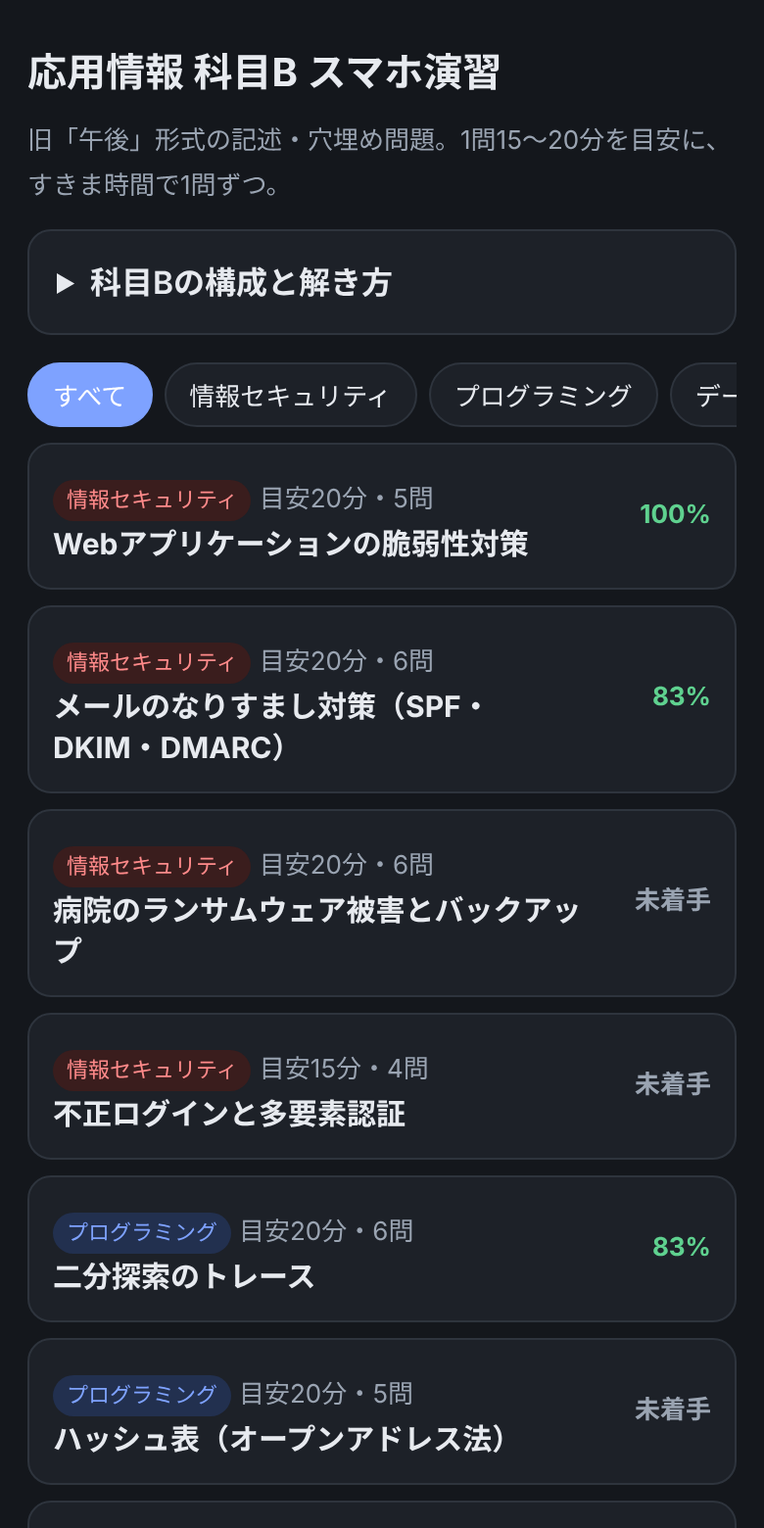
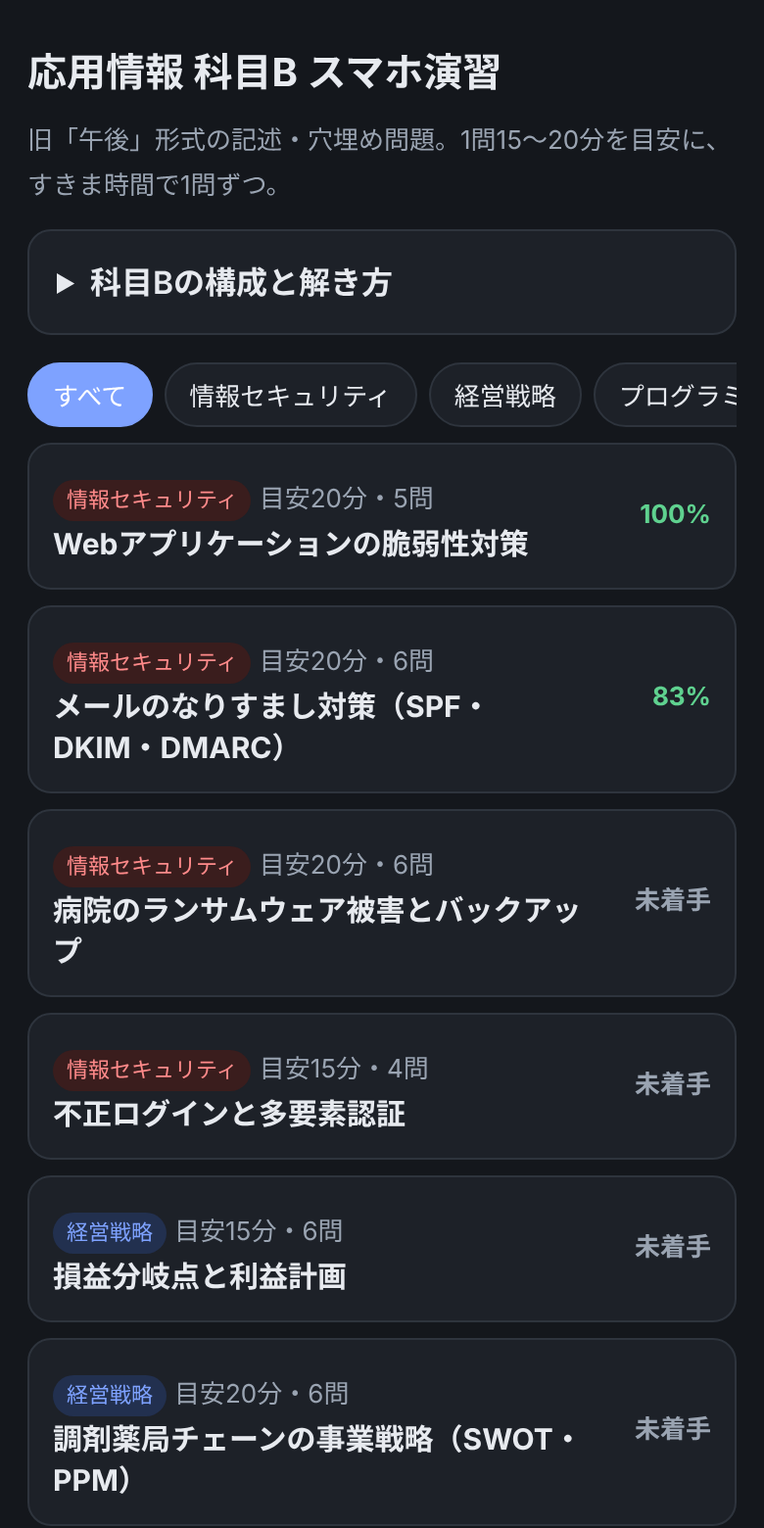
経営戦略・システムアーキテクチャ・情報システム開発・システム監査の問題を追加し、全11分野をそろえる

diff --git a/js/problems.js b/js/problems.js
@@ -3,12 +3,16 @@
 // body の {{g:記号}} は、その記号の解答群に置き換わる
 const FIELDS = {
   sec: { name: '情報セキュリティ', note: '問1・必須' },
-  prog: { name: 'プログラミング', note: '選択' },
-  db: { name: 'データベース', note: '選択' },
-  nw: { name: 'ネットワーク', note: '選択' },
-  emb: { name: '組込みシステム', note: '選択' },
-  pm: { name: 'プロジェクトマネジメント', note: '選択' },
-  sm: { name: 'サービスマネジメント', note: '選択' },
+  st: { name: '経営戦略', note: '問2' },
+  prog: { name: 'プログラミング', note: '問3' },
+  arch: { name: 'システムアーキテクチャ', note: '問4' },
+  nw: { name: 'ネットワーク', note: '問5' },
+  db: { name: 'データベース', note: '問6' },
+  emb: { name: '組込みシステム', note: '問7' },
+  dev: { name: '情報システム開発', note: '問8' },
+  pm: { name: 'プロジェクトマネジメント', note: '問9' },
+  sm: { name: 'サービスマネジメント', note: '問10' },
+  au: { name: 'システム監査', note: '問11' },
 };
 
 const PROBLEMS = [
@@ -631,4 +635,313 @@ const PROBLEMS = [
 <p><b>d</b>：MTBF ÷ (MTBF ＋ MTTR) ＝ 480 ÷ 500 ＝ <b>0.96</b>。</p>
 <p><b>e・f</b>：インシデント管理＝とにかく早く元に戻す（暫定対処でもよい）。問題管理＝根本原因を突き止めて再発を防ぐ。変更管理＝変更を安全に行う。この役割分担は毎年のように問われる。</p>`
 },
+/* ===================== 経営戦略 ===================== */
+{
+  id: 'b1', f: 'st', title: '損益分岐点と利益計画', min: 15,
+  body: `
+<p>N社は、スマートフォンのアプリと連動する体組成計を製造・販売している。販売単価は20,000円、1台あたりの変動費は12,000円、年間の固定費は4,000万円である。</p>
+<h4>設問1</h4>
+<p>限界利益率は〔a〕%である。</p>
+<h4>設問2</h4>
+<p>損益分岐点の販売台数は〔b〕台である。また、年間1,200万円の営業利益を得るには〔c〕台を販売する必要がある。</p>
+<h4>設問3</h4>
+<p>年間7,500台を販売したときの安全余裕率は〔d〕%である（小数第2位を四捨五入）。</p>
+<h4>設問4</h4>
+<p>部品の共通化によって、1台あたりの変動費を2,000円下げられた。固定費が変わらないとき、損益分岐点の販売台数は〔e〕台になる。</p>
+<h4>設問5</h4>
+<p>工場の自動化によって、固定費を増やす代わりに変動費を大きく下げる案がある。この案の特徴として適切なものを〔f〕の解答群から選べ。</p>
+{{g:f}}`,
+  items: [
+    { k: 'a', l: '設問1', t: 'n', a: ['40'] },
+    { k: 'b', l: '設問2 b', t: 'n', a: ['5000'] },
+    { k: 'c', l: '設問2 c', t: 'n', a: ['6500'] },
+    { k: 'd', l: '設問3', t: 'n', a: ['33.3'] },
+    { k: 'e', l: '設問4', t: 'n', a: ['4000'] },
+    { k: 'f', l: '設問5', t: 'c', o: ['損益分岐点が必ず下がる', '限界利益率が下がる', '売上高の増減に対して、営業利益の増減が大きくなる', '売上高に関係なく営業利益が一定になる'], a: 2 },
+  ],
+  exp: `
+<p><b>基本の式</b>：限界利益 ＝ 売上高 − 変動費。損益分岐点では「限界利益 ＝ 固定費」になる。</p>
+<ul>
+<li>a：1台の限界利益 ＝ 20,000 − 12,000 ＝ 8,000円。限界利益率 ＝ 8,000 ÷ 20,000 ＝ <b>40%</b></li>
+<li>b：4,000万円 ÷ 8,000円 ＝ <b>5,000台</b>（売上高にすると 1億円 ＝ 4,000万 ÷ 0.4）</li>
+<li>c：（固定費 ＋ 目標利益）÷ 1台の限界利益 ＝ 5,200万 ÷ 8,000 ＝ <b>6,500台</b></li>
+<li>d：安全余裕率 ＝（実際 − 損益分岐点）÷ 実際 ＝ 2,500 ÷ 7,500 ≒ <b>33.3%</b>。売上がどれだけ落ちても赤字にならないかを表す</li>
+<li>e：1台の限界利益が 10,000円になるので 4,000万 ÷ 10,000 ＝ <b>4,000台</b></li>
+</ul>
+<p><b>f</b>：固定費の割合が大きいほど、売上が増えたときの利益の伸びも、減ったときの落ち込みも大きくなる（営業レバレッジが高い）。損益分岐点は固定費が増えるので上がることもある。</p>
+<p class="tip">「台数で聞かれているか、売上高で聞かれているか」を最初に確認する。売上高なら固定費 ÷ 限界利益率、台数なら固定費 ÷ 1個の限界利益。</p>`
+},
+{
+  id: 'b2', f: 'st', title: '調剤薬局チェーンの事業戦略（SWOT・PPM）', min: 20,
+  body: `
+<p>O社は、地方で20店舗を展開する調剤薬局チェーンである。経営企画部が中期経営計画のために現状を分析したところ、次のことが分かった。</p>
+<div class="box"><ul>
+<li>地域の診療所との関係が深く、在宅患者への訪問服薬指導の実績が多い。</li>
+<li>店舗のIT化が遅れており、薬剤師の採用も難しくなっている。</li>
+<li>高齢化によって在宅医療の需要が伸びている。電子処方箋の普及やオンライン服薬指導の広がりで、店舗に来られない患者にもサービスを届けやすくなっている。</li>
+<li>大手ドラッグストアが調剤に参入し、近隣に出店を続けている。</li>
+</ul></div>
+<p>O社の事業は次の2つである。</p>
+<table><tr><th>事業</th><th>市場<br>成長率</th><th>相対的<br>市場シェア</th></tr>
+<tr><td>店頭での調剤</td><td>低い</td><td>高い</td></tr>
+<tr><td>在宅・オンライン服薬指導</td><td>高い</td><td>低い</td></tr></table>
+<h4>設問1</h4>
+<p>SWOT分析で、「電子処方箋の普及」は〔a〕、「薬剤師の採用が難しい」は〔b〕に分類される。解答群から選べ。</p>
+{{g:a}}
+<h4>設問2</h4>
+<p>クロスSWOT分析で、「強み」を「機会」に生かす施策として最も適切なものを〔c〕の解答群から選べ。</p>
+{{g:c}}
+<h4>設問3</h4>
+<p>PPMで、「在宅・オンライン服薬指導」は〔d〕、「店頭での調剤」は〔e〕に当たる。解答群から選べ。</p>
+{{g:d}}
+<h4>設問4</h4>
+<p>PPMの考え方に基づいた、2つの事業の間での資金の使い方を〔f〕に30字以内で述べよ。</p>`,
+  items: [
+    { k: 'a', l: '設問1 a', t: 'c', o: ['強み', '弱み', '機会', '脅威'], a: 2, g: 'a・b に共通の解答群' },
+    { k: 'b', l: '設問1 b', t: 'c', o: ['強み', '弱み', '機会', '脅威'], a: 1, hideG: true },
+    { k: 'c', l: '設問2', t: 'c', o: ['不採算の店舗を閉鎖し、大手との競合を避ける', '店舗の内装を一新して来店客を増やす', '薬の価格を引き下げて大手に対抗する', '訪問服薬指導の実績を生かし、オンライン服薬指導と組み合わせた在宅患者向けサービスを広げる'], a: 3 },
+    { k: 'd', l: '設問3 d', t: 'c', o: ['花形', '金のなる木', '問題児', '負け犬'], a: 2, g: 'd・e に共通の解答群' },
+    { k: 'e', l: '設問3 e', t: 'c', o: ['花形', '金のなる木', '問題児', '負け犬'], a: 1, hideG: true },
+    { k: 'f', l: '設問4', t: 'w', lim: 30, a: '店頭調剤の資金を在宅・オンライン事業に投資し花形に育てる', kw: [['店頭', '金のなる木'], ['在宅', 'オンライン', '問題児'], ['投資', '投入', '配分', '回す']] },
+  ],
+  exp: `
+<p><b>a・b</b>：自社の内側のこと（変えられること）が強み・弱み、外側の環境が機会・脅威。電子処方箋の普及は外部環境の追い風なので<b>機会</b>、採用難は自社の<b>弱み</b>。</p>
+<p><b>c</b>：強み（訪問服薬指導の実績）×機会（在宅医療の需要・オンライン化）＝積極化戦略。アは脅威を避ける守りの施策、イ・ウは本文の強みを使っていない。</p>
+<p><b>d・e</b>：PPMは市場成長率と相対的市場シェアの2軸で分ける。</p>
+<table><tr><th></th><th>シェア高</th><th>シェア低</th></tr>
+<tr><th>成長率高</th><td>花形</td><td>問題児</td></tr>
+<tr><th>成長率低</th><td>金のなる木</td><td>負け犬</td></tr></table>
+<p><b>f</b>：金のなる木（投資があまり要らず、資金を生む）で得た資金を、問題児（成長市場だがシェアが低い）に投資してシェアを上げ、花形に育てるのが基本方針。本文の事業名を使って書くと伝わりやすい。</p>
+<p class="tip">経営戦略の問題は、本文にある「強み」をそのまま使った選択肢が正解になりやすい。本文に書かれていない施策は選ばない。</p>`
+},
+/* ===================== システムアーキテクチャ ===================== */
+{
+  id: 'a1', f: 'arch', title: 'Webシステムの性能見積り', min: 20,
+  body: `
+<p>P社は、予約サイトのサーバ構成を見直している。</p>
+<div class="box"><ul>
+<li>APサーバは1台あたりCPUが4コアで、1件のリクエストの処理にCPU時間を50ms使う。リクエストは各コアに均等に振り分けられる。</li>
+<li>APサーバのCPU使用率は、ピーク時でも70%以下に抑える。</li>
+<li>ピーク時のリクエストは毎秒150件である。</li>
+<li>DBサーバはM/M/1の待ち行列とみなせる。1件の平均サービス時間は20msである。</li>
+</ul></div>
+<h4>設問1</h4>
+<p>APサーバ1台が処理できるリクエストは、CPU使用率100%のとき最大で毎秒〔a〕件である。</p>
+<h4>設問2</h4>
+<p>ピーク時にCPU使用率70%以下を満たすには、APサーバが最低〔b〕台必要である。さらに、1台が故障しても同じ条件を満たすには〔c〕台必要である。</p>
+<h4>設問3</h4>
+<p>DBサーバへの要求が毎秒40件のとき、DBサーバの利用率は〔d〕、平均応答時間（待ち時間＋サービス時間）は〔e〕msである。</p>
+<h4>設問4</h4>
+<p>DBサーバへの要求が毎秒45件に増えると、平均応答時間は〔f〕msになる。</p>`,
+  items: [
+    { k: 'a', l: '設問1', t: 'n', a: ['80'] },
+    { k: 'b', l: '設問2 b', t: 'n', a: ['3'] },
+    { k: 'c', l: '設問2 c', t: 'n', a: ['4'] },
+    { k: 'd', l: '設問3 d', t: 'n', a: ['0.8', '80%'] },
+    { k: 'e', l: '設問3 e', t: 'n', a: ['100'] },
+    { k: 'f', l: '設問4', t: 'n', a: ['200'] },
+  ],
+  exp: `
+<p><b>a</b>：1コアは1秒（1,000ms）で 1,000 ÷ 50 ＝ 20件。4コアで <b>80件/秒</b>。</p>
+<p><b>b</b>：70%以下なら1台あたり 80 × 0.7 ＝ 56件/秒まで。150 ÷ 56 ≒ 2.68 → 切り上げて<b>3台</b>。</p>
+<p><b>c</b>：1台故障しても3台残るように、<b>4台</b>（N＋1構成）。</p>
+<p><b>d・e（M/M/1）</b></p>
+<ul>
+<li>利用率 ρ ＝ 到着率 × 平均サービス時間 ＝ 40 × 0.02 ＝ <b>0.8</b></li>
+<li>平均待ち時間 ＝ ρ ÷ (1 − ρ) × サービス時間 ＝ 4 × 20 ＝ 80ms</li>
+<li>平均応答時間 ＝ 80 ＋ 20 ＝ <b>100ms</b>（＝ サービス時間 ÷ (1 − ρ)）</li>
+</ul>
+<p><b>f</b>：ρ ＝ 45 × 0.02 ＝ 0.9。20 ÷ (1 − 0.9) ＝ <b>200ms</b>。要求が1.125倍になっただけで応答時間は2倍になる。利用率が1に近づくと応答時間が急に悪化するのが待ち行列の特徴。</p>
+<p class="tip">「台数」は必ず切り上げ。「1台故障しても」「保守中でも」と書かれていたら＋1台を忘れない。</p>`
+},
+{
+  id: 'a2', f: 'arch', title: '勤怠システムのクラウド移行', min: 20,
+  body: `
+<p>Q社は、社内の勤怠管理システム（Webサーバ1台、DBサーバ1台のオンプレミス構成）を、IaaS型のクラウドサービスへ移行する。</p>
+<div class="box"><ul>
+<li>利用は平日の朝と夕方に多く、夜間・休日はほとんどない。月末は締め処理で利用が集中する。</li>
+<li>移行後は、Webサーバを複数台にしてロードバランサで振り分ける。</li>
+<li>DBは、2つの異なるデータセンタ（アベイラビリティゾーン）にプライマリとスタンバイを置き、<b>同期</b>レプリケーションで冗長化する。</li>
+<li>現行システムは、ログイン状態（セッション情報）を各Webサーバのメモリに保持している。</li>
+</ul></div>
+<h4>設問1</h4>
+<p>月末など負荷の高い時期だけWebサーバの台数を自動で増やし、負荷が下がったら減らす機能を〔a〕の解答群から選べ。</p>
+{{g:a}}
+<h4>設問2</h4>
+<p>(1) セッション情報を各Webサーバのメモリに保持したままWebサーバを複数台にすると、どのような問題が起きるか。〔b〕に30字以内で述べよ。<br>(2) その対策として適切なものを〔c〕の解答群から選べ。</p>
+{{g:c}}
+<h4>設問3</h4>
+<p>DBのレプリケーションを非同期ではなく同期にする利点を〔d〕に30字以内で述べよ。</p>
+<h4>設問4</h4>
+<p>IaaSの責任共有モデルで、利用者であるQ社が責任を負うものを〔e〕の解答群から選べ。</p>
+{{g:e}}`,
+  items: [
+    { k: 'a', l: '設問1', t: 'c', o: ['ロードバランシング', 'フェールオーバ', 'オートスケーリング', 'スナップショット'], a: 2 },
+    { k: 'b', l: '設問2(1)', t: 'w', lim: 30, a: '別のWebサーバに振り分けられると、ログイン状態が失われる', kw: [['別の', '振り分', '他の'], ['失われ', '引き継が', '消え', '再ログイン', 'ログアウト']] },
+    { k: 'c', l: '設問2(2)', t: 'c', o: ['Webサーバのメモリを増やす', 'セッション情報を、全Webサーバから参照できるキャッシュサーバやDBに保存する', 'DNSのTTLを長くする', 'Webサーバを1台に戻す'], a: 1 },
+    { k: 'd', l: '設問3', t: 'w', lim: 30, a: '切替時に、コミット済みのデータが失われない', kw: [['失われない', '消えない', '欠損しない', '損失がない', '失わない'], ['切替', '切り替', 'フェールオーバ', '障害', '故障']] },
+    { k: 'e', l: '設問4', t: 'c', o: ['データセンタの物理的な入退室管理', '仮想化基盤（ハイパーバイザ）の保守', '物理サーバの故障部品の交換', 'ゲストOSへのセキュリティパッチの適用'], a: 3 },
+  ],
+  exp: `
+<p><b>a</b>：オートスケーリング。夜間・休日に台数を減らせば、クラウドの従量課金で費用も下がる。ロードバランシングは振り分けるだけで、台数は増減しない。</p>
+<p><b>b・c</b>：ロードバランサが次のリクエストを別のWebサーバに振り分けると、そのサーバのメモリにはセッション情報がないので、ログインし直しになる。対策は、セッション情報を共有のデータストア（キャッシュサーバやDB）に置き、Webサーバ自体は状態を持たない（ステートレス）ようにすること。同じ利用者を同じサーバに振り続ける「スティッキーセッション」もあるが、そのサーバが止まるとやはりセッションが失われる。</p>
+<p><b>d</b>：同期レプリケーションは、スタンバイへの書込みが終わってからコミットを返すので、プライマリが故障して切り替えても、コミット済みのデータは失われない。代わりに、書込みのたびに相手の応答を待つので性能が落ちる（非同期はその逆）。</p>
+<p><b>e</b>：IaaSでは、物理設備と仮想化基盤までが事業者、ゲストOSから上（OS・ミドルウェア・アプリ・データ）が利用者の責任。PaaS、SaaSになるほど事業者の範囲が広がる。</p>`
+},
+/* ===================== 情報システム開発 ===================== */
+{
+  id: 'k1', f: 'dev', title: '送料計算機能のテスト設計', min: 15,
+  body: `
+<p>R社は通販サイトの送料計算機能をテストする。仕様は次のとおりである。</p>
+<div class="box"><ul>
+<li>購入金額は1〜99,999円の整数とし、範囲外の値はエラーとする。</li>
+<li>購入金額が5,000円以上なら送料は無料、3,000円以上5,000円未満なら300円、3,000円未満なら600円とする。</li>
+</ul></div>
+<p>この機能は次のように実装されている。</p>
+<pre>if ((金額 ＜ 1) or (金額 ＞ 99999))
+  エラーを返す
+elseif (金額 ≧ 5000)
+  送料 ← 0
+elseif (金額 ≧ 3000)
+  送料 ← 300
+else
+  送料 ← 600
+endif</pre>
+<h4>設問1</h4>
+<p>同値分割法で、有効同値クラスは〔a〕個、無効同値クラスは〔b〕個である。</p>
+<h4>設問2</h4>
+<p>(1) 境界値分析で、送料が無料になる境界を確かめるテストデータの組として適切なものを〔c〕の解答群から選べ。<br>(2) 有効範囲の両端と、送料が変わる2つの境界について、境界の両側の値を1つずつ選ぶと、テストデータは全部で〔d〕個になる。</p>
+{{g:c}}
+<h4>設問3</h4>
+<p>上の実装に対して、判定条件網羅（分岐網羅）を満たすのに必要な最少のテストケース数は〔e〕個である。</p>
+<h4>設問4</h4>
+<p>同値分割に加えて境界値分析を行う理由を〔f〕に30字以内で述べよ。</p>`,
+  items: [
+    { k: 'a', l: '設問1 a', t: 'n', a: ['3'] },
+    { k: 'b', l: '設問1 b', t: 'n', a: ['2'] },
+    { k: 'c', l: '設問2(1)', t: 'c', o: ['4,999円と5,000円', '5,000円と5,001円', '3,000円と5,000円', '4,000円と6,000円'], a: 0 },
+    { k: 'd', l: '設問2(2)', t: 'n', a: ['8'] },
+    { k: 'e', l: '設問3', t: 'n', a: ['4'] },
+    { k: 'f', l: '設問4', t: 'w', lim: 30, a: '境界では「以上」と「超」の取り違えなどの誤りが多いから', kw: [['誤り', '間違', 'バグ', '不具合', '取り違'], ['境界', '以上', '未満', '超']] },
+  ],
+  exp: `
+<p><b>a・b</b>：有効同値クラスは「1〜2,999」「3,000〜4,999」「5,000〜99,999」の<b>3個</b>。無効同値クラスは「0以下」「100,000以上」の<b>2個</b>。</p>
+<p><b>c</b>：境界は「4,999円（300円）」と「5,000円（無料）」の間にある。その両側を選ぶ。</p>
+<p><b>d</b>：0と1、2,999と3,000、4,999と5,000、99,999と100,000 の<b>8個</b>。</p>
+<p><b>e</b>：if・elseif・elseif の3つの判定それぞれで、真と偽の両方を通す必要がある。</p>
+<ul><li>範囲外（例 0）→ 1つ目が真</li><li>6,000 → 1つ目が偽、2つ目が真</li><li>4,000 → 2つ目が偽、3つ目が真</li><li>1,000 → 3つ目が偽</li></ul>
+<p>の<b>4個</b>。条件網羅（判定の中の「金額＜1」「金額＞99999」それぞれの真偽）とは別物なので、問題文がどちらを聞いているか確認する。</p>
+<p><b>f</b>：実装では「≧」と「＞」の書き間違いなど、境界で誤りが起きやすい。同値クラスの真ん中の値だけでは、この誤りを見つけられない。</p>`
+},
+{
+  id: 'k2', f: 'dev', title: 'スクラムによるアジャイル開発', min: 15,
+  body: `
+<p>S社は、医療機関向けの予約アプリをスクラムで開発している。スプリントの期間は2週間である。</p>
+<div class="box"><ul>
+<li>直近3回のスプリントで完了したストーリーポイントは、18、22、20 であった。</li>
+<li>プロダクトバックログの残りは、合計120ポイントである。</li>
+<li><u>開発では、変更をこまめにリポジトリに統合し、そのたびに自動でビルドとテストを実行している。</u></li>
+</ul></div>
+<h4>設問1</h4>
+<p>直近3回の平均ベロシティは〔a〕ポイントである。このベロシティが続くと、残りのバックログを完了するには〔b〕回のスプリント（〔c〕週間）が必要である。</p>
+<h4>設問2</h4>
+<p>プロダクトバックログの並び順（優先順位）に責任をもつ役割を〔d〕、スプリントの最後にチームの進め方を振り返って改善する場を〔e〕の解答群から選べ。</p>
+{{g:d}}{{g:e}}
+<h4>設問3</h4>
+<p>下線の運用（継続的インテグレーション）の利点を〔f〕に30字以内で述べよ。</p>
+<h4>設問4</h4>
+<p>テスト駆動開発（TDD）の進め方として適切なものを〔g〕の解答群から選べ。</p>
+{{g:g}}`,
+  items: [
+    { k: 'a', l: '設問1 a', t: 'n', a: ['20'] },
+    { k: 'b', l: '設問1 b', t: 'n', a: ['6'] },
+    { k: 'c', l: '設問1 c', t: 'n', a: ['12'] },
+    { k: 'd', l: '設問2 d', t: 'c', o: ['スクラムマスター', 'プロダクトオーナー', '開発者', 'ステークホルダー'], a: 1 },
+    { k: 'e', l: '設問2 e', t: 'c', o: ['スプリントレビュー', 'スプリントプランニング', 'デイリースクラム', 'スプリントレトロスペクティブ'], a: 3 },
+    { k: 'f', l: '設問3', t: 'w', lim: 30, a: '統合時の不具合を早期に発見でき、手戻りを小さくできる', kw: [['早期', '早く', 'すぐ'], ['発見', '検出', '見つけ', '気付']] },
+    { k: 'g', l: '設問4', t: 'c', o: ['すべての機能を実装してから、まとめてテストを書く', '失敗するテストを先に書き、それを通す最小限のコードを書いてから、リファクタリングする', 'テストは別のチームが書き、開発者は書かない', '設計書をすべて完成させてからテストケースを作る'], a: 1 },
+  ],
+  exp: `
+<p><b>a〜c</b>：(18 ＋ 22 ＋ 20) ÷ 3 ＝ <b>20</b>。120 ÷ 20 ＝ <b>6回</b>。1回2週間なので<b>12週間</b>。</p>
+<p><b>d</b>：プロダクトオーナーがプロダクトバックログの価値と並び順に責任をもつ。スクラムマスターはスクラムがうまく回るよう支援する役。</p>
+<p><b>e</b>：レトロスペクティブ＝チームの進め方の振り返り。レビュー＝できた成果物を関係者に見せてフィードバックをもらう場。この2つの取り違えが定番のひっかけ。</p>
+<p><b>f</b>：変更を小さく頻繁に統合して自動テストを回すので、不具合を入れた直後に気付ける。まとめて統合すると、どの変更が原因か分かりにくくなる。</p>
+<p><b>g</b>：TDDは「レッド（失敗するテスト）→ グリーン（通す最小限のコード）→ リファクタリング」の繰り返し。</p>`
+},
+/* ===================== システム監査 ===================== */
+{
+  id: 'u1', f: 'au', title: '電子カルテのアクセス管理の監査', min: 20,
+  body: `
+<p>T病院の内部監査室は、電子カルテシステムのアクセス管理についてシステム監査を行った。予備調査で次のことが分かった。</p>
+<div class="box"><ul>
+<li>利用者IDは職員ごとに発行する。職員が退職すると、人事部からの連絡を受けて情報システム部がIDを削除する。</li>
+<li>監査人が人事システムの退職者一覧と電子カルテの有効なID一覧を突き合わせたところ、退職から3か月以上たっても有効なIDが4件あった。</li>
+<li>診療録の閲覧ログは取得されているが、定期的には確認されていない。</li>
+<li>救急時などに、担当外の患者の診療録も閲覧できる「緊急閲覧」機能がある。</li>
+</ul></div>
+<h4>設問1</h4>
+<p>有効なまま残っていた4件のIDについて、監査人が次に確かめるべきことを〔a〕の解答群から選べ。</p>
+{{g:a}}
+<h4>設問2</h4>
+<p>IDの削除漏れが起きた原因として考えられる、統制上の不備を〔b〕に40字以内で述べよ。</p>
+<h4>設問3</h4>
+<p>監査人の改善提案として最も適切なものを〔c〕の解答群から選べ。</p>
+{{g:c}}
+<h4>設問4</h4>
+<p>緊急閲覧機能が不正に使われていないことを確かめるために、運用上必要なことを〔d〕に30字以内で述べよ。</p>
+<h4>設問5</h4>
+<p>システム監査人に求められる独立性として適切なものを〔e〕の解答群から選べ。</p>
+{{g:e}}`,
+  items: [
+    { k: 'a', l: '設問1', t: 'c', o: ['退職者の在職中の勤務評価', '退職後にそのIDでログインや診療録の閲覧が行われていないか', 'IDに設定されたパスワードの文字数', '情報システム部の年間予算'], a: 1 },
+    { k: 'b', l: '設問2', t: 'w', lim: 40, a: '人事部からの連絡に頼っており、ID一覧と退職者を定期的に照合していない', kw: [['照合', '突合', '突き合わせ', '棚卸'], ['定期']] },
+    { k: 'c', l: '設問3', t: 'c', o: ['退職者のIDは監査人が見つけ次第削除する', 'IDの有効期限をなくす', '人事システムの退職者情報とID一覧を定期的に照合し、結果を責任者が確認する', '退職者にパスワードの変更を依頼する'], a: 2 },
+    { k: 'd', l: '設問4', t: 'w', lim: 30, a: '利用時に理由を記録させ、事後に正当な利用か確認する', kw: [['理由', '目的'], ['事後', '後で', '後日', '定期'], ['確認', 'チェック', 'レビュー', '点検']] },
+    { k: 'e', l: '設問5', t: 'c', o: ['監査対象の業務から独立していること', '監査対象のシステムを自分で開発したこと', '監査対象部門の業務を兼務していること', '情報システム部長の指示で監査を行うこと'], a: 0 },
+  ],
+  exp: `
+<p><b>a</b>：削除漏れそのものより、「その間に不正に使われたか」が影響の大きさを決める。アクセスログで退職後の利用がないかを確かめる。</p>
+<p><b>b</b>：削除が人事部からの連絡という1つの経路だけに頼っていて、漏れを見つける仕組み（ID の棚卸し、退職者一覧との定期的な照合）がない。「連絡が漏れた」だけでは、統制の不備としては弱い。</p>
+<p><b>c</b>：監査人は自ら是正作業をしない（独立性が損なわれる）。不備を見つける仕組みを業務部門に組み込む提案をする。</p>
+<p><b>d</b>：緊急閲覧は必要な機能なので止めずに、利用ごとに理由を残させ、閲覧ログを事後に確認する（発見的統制）。</p>
+<p><b>e</b>：監査人は監査対象から独立している必要がある（外観上の独立性・精神上の独立性）。自分が作ったシステムや兼務している業務は監査しない。</p>
+<p class="tip">システム監査は知識より読解。「本文の事実 → どの統制が足りないか → 監査人は何を確かめるか」の順に考え、監査人が自分で直す・決める選択肢は外す。</p>`
+},
+{
+  id: 'u2', f: 'au', title: '販売管理システムの内部統制の監査', min: 20,
+  body: `
+<p>U社の内部監査部門は、販売管理システムの受注処理について監査を行った。予備調査で次のことが分かった。</p>
+<div class="box"><ul>
+<li>受注入力担当者が受注データを入力する。受注金額が100万円を超える場合は、システム上で上長が承認しないと登録されない。</li>
+<li>承認の権限は、システム管理者が利用者ごとに設定する。</li>
+<li>一部の受注入力担当者に承認権限も設定されており、自分が入力した受注を自分で承認できる状態だった。</li>
+<li>商品の単価マスタは営業企画部が変更し、システムには変更履歴が残る。</li>
+</ul></div>
+<h4>設問1</h4>
+<p>「100万円超の受注は上長が承認しないと登録されない」というシステムに組み込まれた統制は〔a〕、「承認権限をシステム管理者が設定・管理する」統制は〔b〕に当たる。解答群から選べ。</p>
+{{g:a}}
+<h4>設問2</h4>
+<p>受注入力担当者が自分で承認できる状態の問題点を〔c〕に30字以内で述べよ。</p>
+<h4>設問3</h4>
+<p>承認の統制が実際に運用されていることを確かめる監査手続として、最も適切なものを〔d〕の解答群から選べ。</p>
+{{g:d}}
+<h4>設問4</h4>
+<p>単価マスタの変更履歴を使って、監査人が確かめるべきことを〔e〕に40字以内で述べよ。</p>`,
+  items: [
+    { k: 'a', l: '設問1 a', t: 'c', o: ['IT全般統制', 'IT業務処理統制', '全社的な内部統制'], a: 1, g: 'a・b に共通の解答群' },
+    { k: 'b', l: '設問1 b', t: 'c', o: ['IT全般統制', 'IT業務処理統制', '全社的な内部統制'], a: 0, hideG: true },
+    { k: 'c', l: '設問2', t: 'w', lim: 30, a: '入力と承認を同じ人が行え、職務分離が機能しない', kw: [['職務分離', '職務の分離', '同じ人', '同一人', '同一の'], ['承認']] },
+    { k: 'd', l: '設問3', t: 'c', o: ['受注処理の規程を読み、承認の手順が書かれているか確かめる', '受注入力担当者に、承認についての感想を聞く', '100万円超の受注をサンプルで抽出し、承認の記録があり、承認者が入力者と異なるかを確かめる', '1年分の受注金額を合計する'], a: 2 },
+    { k: 'e', l: '設問4', t: 'w', lim: 40, a: '変更が承認された申請に基づき、権限のある者によって正しく行われたか', kw: [['承認', '申請'], ['権限', '正しく', '一致', '照合']] },
+  ],
+  exp: `
+<p><b>a・b</b>：IT業務処理統制は、個々の業務処理（入力・承認・計算など）に組み込まれた統制。IT全般統制は、業務処理統制が正しく働き続けるための土台（アクセス権の管理・プログラム変更の管理・運用管理など）。権限設定は全般統制。</p>
+<p><b>c</b>：入力と承認を別の人が行うことで誤りや不正を防ぐのが承認の目的。同じ人ができると、承認が形だけになる（職務分離の不備）。</p>
+<p><b>d</b>：規程を読む（ア）のは整備状況の確認。実際の記録をサンプルで確かめるのが<b>運用状況</b>の評価。インタビュー（イ）だけでは十分な証拠にならない。</p>
+<p><b>e</b>：変更履歴を、承認済みの変更申請書と突き合わせ、承認のない変更や、権限のない者による変更がないかを確かめる。</p>
+<p class="tip">「整備状況（ルールや仕組みがあるか）」と「運用状況（実際にそのとおり動いているか）」の区別は、監査の問題でほぼ毎回問われる。</p>`
+},
 ];
+
+// 本番の問番号の順（分野の順）に並べる。同じ分野の中は書いた順のまま
+PROBLEMS.sort((x, y) => Object.keys(FIELDS).indexOf(x.f) - Object.keys(FIELDS).indexOf(y.f));

diff --git a/sw.js b/sw.js
@@ -1,7 +1,7 @@
 // オフラインで使うためのサービスワーカー
 // まず保存してある版を表示し、つながっていれば裏で最新版を取りに行く（次に開いたときに新しい版になる）
 // 問題を更新したら CACHE の番号を上げる（v1 → v2）
-const CACHE = "apb-v1";
+const CACHE = "apb-v2";
 const FILES = [
   "./", "./index.html", "./manifest.webmanifest",
   "./css/style.css", "./js/problems.js", "./js/app.js",

diff --git a/README.md b/README.md
@@ -2,7 +2,7 @@
 
 [![CI](https://github.com/haru-ki417/ap-b-app/actions/workflows/ci.yml/badge.svg)](https://github.com/haru-ki417/ap-b-app/actions/workflows/ci.yml)
 
-**応用情報技術者試験の科目B（旧「午後」）を、スマホのすきま時間で。記述・穴埋め形式のオリジナル問題 17 題（解答欄 91 個）を、問題・解答用紙・解説のタブで解けるオフライン対応の Web アプリ（PWA）。**
+**応用情報技術者試験の科目B（旧「午後」）を、スマホのすきま時間で。記述・穴埋め形式のオリジナル問題 25 題（解答欄 137 個）を全 11 分野そろえ、問題・解答用紙・解説のタブで解けるオフライン対応の Web アプリ（PWA）。**
 ホーム画面に追加すればアプリとして起動し、電波のない場所でも使えます。解答と成績はスマホの中だけに保存され、外には送りません。
 
 [**アプリを開く**](https://haru-ki417.github.io/ap-b-app/) — iPhone は Safari の共有ボタン →「ホーム画面に追加」で、アプリとして使えます。
@@ -36,18 +36,22 @@
 
 ## 分野と問題
 
-科目B は 150 分で、問1（情報セキュリティ）が必須、問2〜11 から 4 問を選んで解きます。必須の情報セキュリティを多めに、選ぶ人の多い分野を入れています。
+科目B は 150 分で、問1（情報セキュリティ）が必須、問2〜11 から 4 問を選んで解きます。必須の情報セキュリティを多めにして、選択問題の 10 分野すべてを入れています。一覧は本番の問番号の順に並びます。
 
 | 分野 | 題数 | 問題 |
 |---|---:|---|
-| 情報セキュリティ（必須） | 4 | Web アプリの脆弱性（SQL インジェクション・XSS・CSRF）／メールのなりすまし対策（SPF・DKIM・DMARC）／病院のランサムウェア被害とバックアップ／不正ログインと多要素認証 |
-| プログラミング | 3 | 二分探索のトレース／ハッシュ表（オープンアドレス法）／動的計画法（硬貨の最小枚数と貪欲法） |
-| データベース | 3 | 診療予約表の正規化／SQL の集計と外部結合（HAVING・COUNT と NULL）／排他制御とデッドロック |
-| ネットワーク | 2 | サブネット設計（VLSM）／DNS の運用（TTL・オープンリゾルバ）と NAPT |
-| 組込みシステム | 2 | 腕時計型脈拍計（A/D 変換・サンプリング定理・平均消費電流）／転倒検知装置の状態遷移 |
-| プロジェクトマネジメント | 2 | EVM（SV・CV・CPI・SPI・EAC）／クリティカルパスと日程短縮 |
-| サービスマネジメント | 1 | SLA と稼働率（直列・並列・MTBF/MTTR）、インシデント管理と問題管理 |
-| **合計** | **17** | 解答欄 91 個（選択 34・数値 40・記述 17） |
+| 問1 情報セキュリティ（必須） | 4 | Web アプリの脆弱性（SQL インジェクション・XSS・CSRF）／メールのなりすまし対策（SPF・DKIM・DMARC）／病院のランサムウェア被害とバックアップ／不正ログインと多要素認証 |
+| 問2 経営戦略 | 2 | 損益分岐点と利益計画（安全余裕率・営業レバレッジ）／調剤薬局チェーンの事業戦略（SWOT・クロスSWOT・PPM） |
+| 問3 プログラミング | 3 | 二分探索のトレース／ハッシュ表（オープンアドレス法）／動的計画法（硬貨の最小枚数と貪欲法） |
+| 問6 データベース | 3 | 診療予約表の正規化／SQL の集計と外部結合（HAVING・COUNT と NULL）／排他制御とデッドロック |
+| 問4 システムアーキテクチャ | 2 | Web システムの性能見積り（必要台数・N＋1・M/M/1）／勤怠システムのクラウド移行（オートスケーリング・セッション共有・同期レプリケーション・責任共有モデル） |
+| 問5 ネットワーク | 2 | サブネット設計（VLSM）／DNS の運用（TTL・オープンリゾルバ）と NAPT |
+| 問7 組込みシステム | 2 | 腕時計型脈拍計（A/D 変換・サンプリング定理・平均消費電流）／転倒検知装置の状態遷移 |
+| 問8 情報システム開発 | 2 | 送料計算機能のテスト設計（同値分割・境界値分析・分岐網羅）／スクラムによるアジャイル開発（ベロシティ・役割とイベント・CI・TDD） |
+| 問9 プロジェクトマネジメント | 2 | EVM（SV・CV・CPI・SPI・EAC）／クリティカルパスと日程短縮 |
+| 問10 サービスマネジメント | 1 | SLA と稼働率（直列・並列・MTBF/MTTR）、インシデント管理と問題管理 |
+| 問11 システム監査 | 2 | 電子カルテのアクセス管理の監査（ID の棚卸し・緊急閲覧・独立性）／販売管理システムの内部統制（IT 全般統制と業務処理統制・職務分離・運用状況の評価） |
+| **合計** | **25** | 解答欄 137 個（選択 53・数値 58・記述 26） |
 
 プログラムは IPA の擬似言語の書き方にそろえています。
 
@@ -87,7 +91,7 @@ python3 tests/smoke.py        # スマホ幅のブラウザーで動かす
 
 | テスト | 確かめること |
 |---|---|
-| [`tests/check.mjs`](tests/check.mjs) | 問題データの形（id・解答欄の記号・解答群の差し込み・正解の番号・解答例が字数内か・解答例にキーワードが入っているか）／**計算・トレースの問題は、問題文どおりの処理（二分探索・ハッシュ表・動的計画法・サブネットの割当て・EVM・クリティカルパス・稼働率など）をテストの中でもう一度計算し、正解と一致するか**／オフライン用に保存するファイルがそろっているか |
+| [`tests/check.mjs`](tests/check.mjs) | 問題データの形（id・解答欄の記号・解答群の差し込み・正解の番号・解答例が字数内か・解答例にキーワードが入っているか）／**計算・トレースの問題は、問題文どおりの処理（二分探索・ハッシュ表・動的計画法・サブネットの割当て・損益分岐点・待ち行列・境界値と分岐網羅・EVM・クリティカルパス・稼働率など）をテストの中でもう一度計算し、正解と一致するか**／オフライン用に保存するファイルがそろっているか |
 | [`tests/smoke.py`](tests/smoke.py) | スマホ幅のブラウザーで、分野の絞り込み・解答群の表示・字数カウントと字数オーバー・自動採点・自己採点・解説・全角や単位つきの数値・成績の保存・通信を切っての起動 |
 
 push のたびに GitHub Actions で両方を回します。
